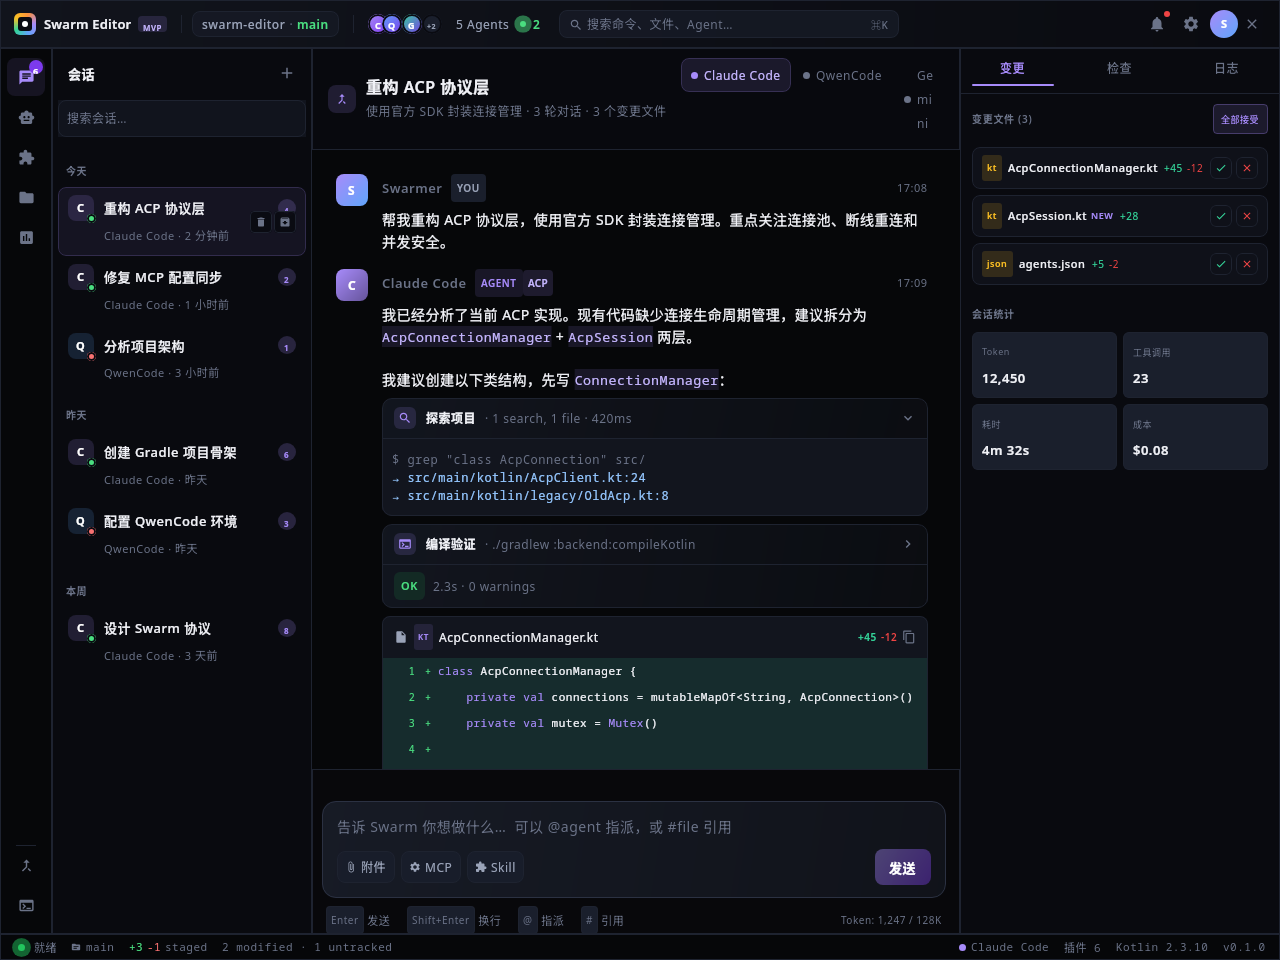
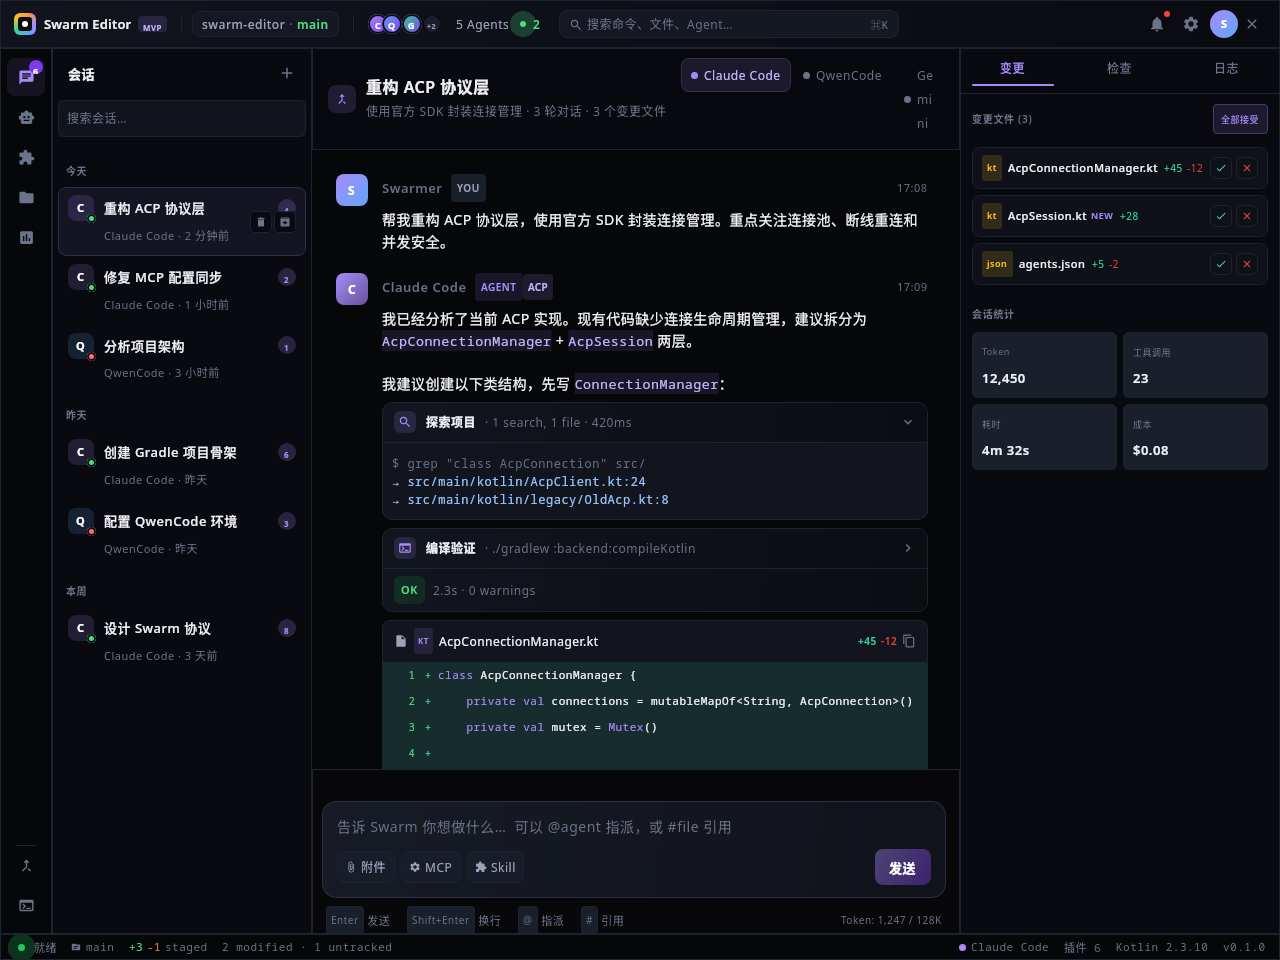
fix(desktop): 设计稿全量对齐 — 消息间距/设置弹窗/关于tab修正
- 消息间距恢复 22dp（设计稿 .msg margin-bottom:22px）
- 设置弹窗 sidebar 宽度 130→220dp（设计稿 .modal-side 220px）
- 移除"关于"tab（设计稿设置弹窗只有 6 个 tab，无关于）

diff --git a/desktopApp/src/main/kotlin/com/swarmeditor/desktop/ui/settings/SettingsModal.kt b/desktopApp/src/main/kotlin/com/swarmeditor/desktop/ui/settings/SettingsModal.kt
@@ -69,7 +69,7 @@ fun SettingsModal(
 
     val tabs = listOf(
         "agent" to "Agent 配置", "mcp" to "MCP 管理", "skills" to "Skills 管理",
-        "general" to "通用", "appearance" to "外观", "shortcuts" to "快捷键", "about" to "关于"
+        "general" to "通用", "appearance" to "外观", "shortcuts" to "快捷键"
     )
 
     Box(modifier = Modifier.fillMaxSize().background(Color.Black.withAlpha(0.5f)).clickable(onClick = onClose), contentAlignment = Alignment.Center) {
@@ -83,7 +83,7 @@ fun SettingsModal(
                 }
             }
             Row(modifier = Modifier.weight(1f).fillMaxWidth()) {
-                Column(modifier = Modifier.width(130.dp).fillMaxHeight().background(Bg).padding(vertical = 4.dp)) {
+                Column(modifier = Modifier.width(220.dp).fillMaxHeight().background(Bg).padding(vertical = 4.dp)) {
                     tabs.forEach { (id, label) ->
                         val isActive = activeTab == id
                         Row(modifier = Modifier.fillMaxWidth().clickable { activeTab = id }.padding(horizontal = 10.dp, vertical = 8.dp), verticalAlignment = Alignment.CenterVertically) {
@@ -106,7 +106,6 @@ fun SettingsModal(
                         "general" -> GeneralTab(agents)
                         "appearance" -> AppearanceTab()
                         "shortcuts" -> ShortcutsTab()
-                        "about" -> AboutTab()
                     }
                 }
             }

diff --git a/desktopApp/src/main/kotlin/com/swarmeditor/desktop/ui/session/ChatArea.kt b/desktopApp/src/main/kotlin/com/swarmeditor/desktop/ui/session/ChatArea.kt
@@ -128,7 +128,7 @@ fun ChatArea(
                         agentColor = msgAgent.color
                     )
                 }
-                Spacer(Modifier.height(18.dp))
+                Spacer(Modifier.height(22.dp))
             }
             if (isSending) {
                 Row(modifier = Modifier.fillMaxWidth(), verticalAlignment = Alignment.CenterVertically) {
